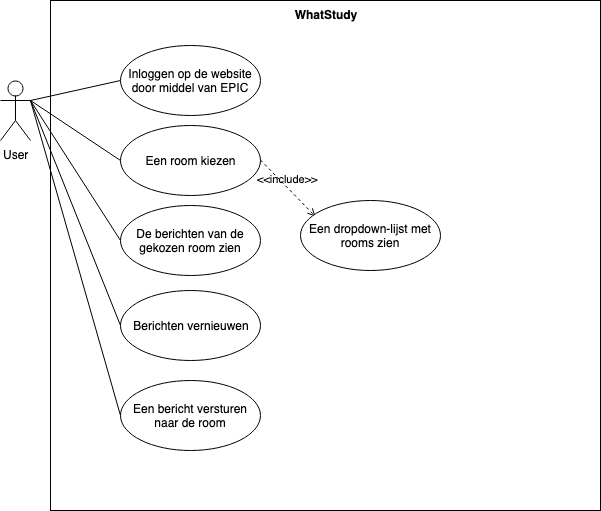
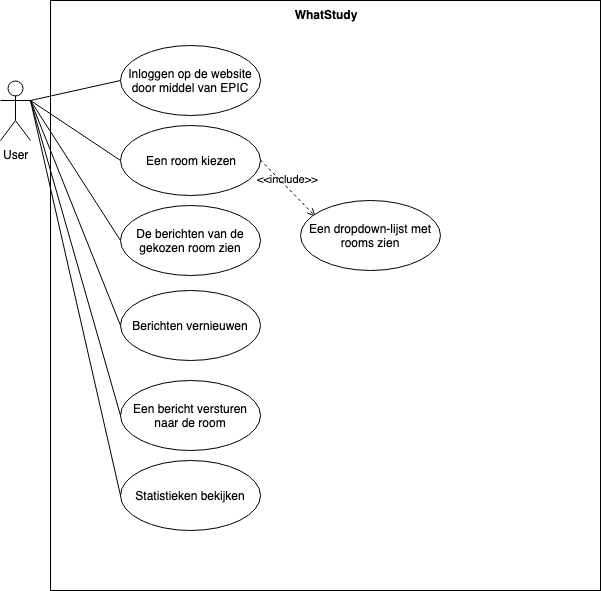
Documentatie US6 toegevoegd

diff --git a/public/documentation/index.html b/public/documentation/index.html
@@ -11,7 +11,7 @@
 </head>
 
 <body>
-    <h1>Documentatie voor WhatStudy ORI3 - Avinash (US1-5)</h1>
+    <h1>Documentatie voor WhatStudy ORI3 - Avinash (US1-9)</h1>
 
     <h2>Use Case Diagram</h2>
     <img src="img/usecasediagram.png">
